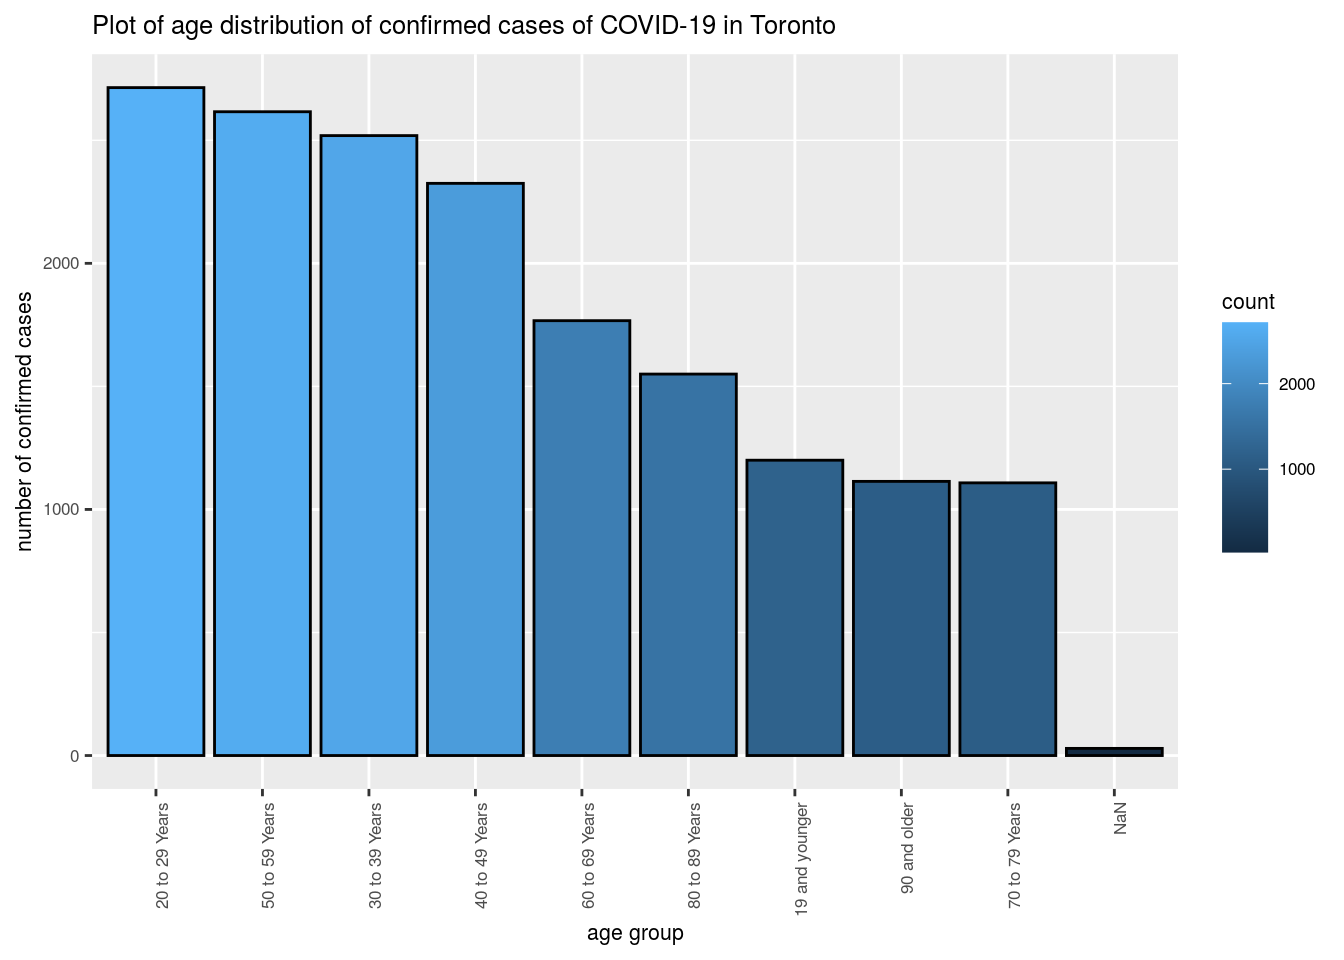
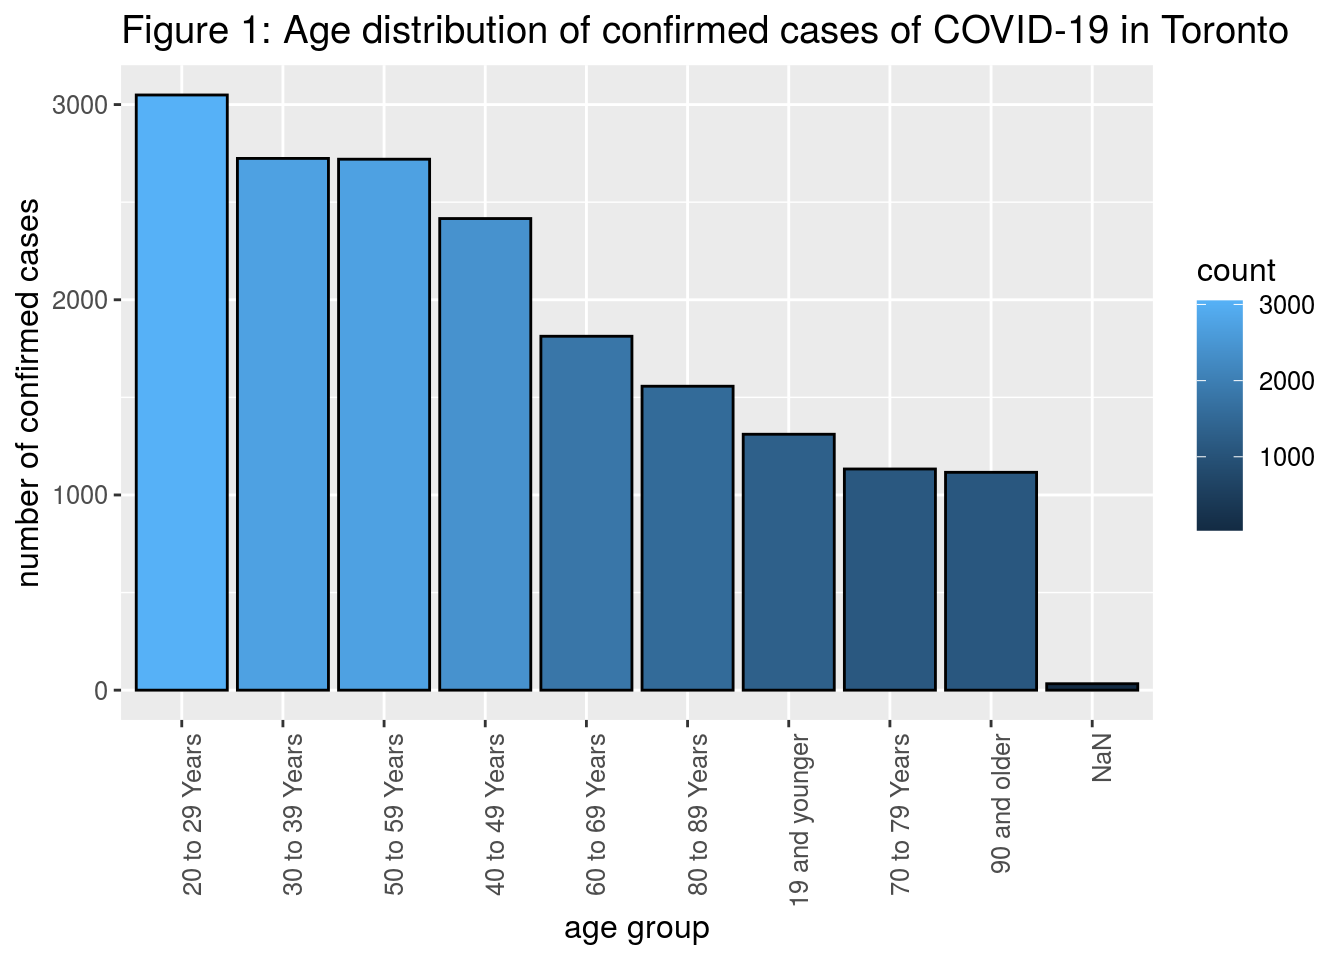
second commit

Changed region(s): [[0.0, 0.0, 0.9688, 1.0], [0.875, 0.2812, 1.0, 0.5938], [0.8125, 0.8438, 0.8438, 0.875]]

diff --git a/public/2020/09/20/young-people-is-the-key-to-slow-down-the-spread-of-covid-19-in-toronto/index.html b/public/2020/09/20/young-people-is-the-key-to-slow-down-the-spread-of-covid-19-in-toronto/index.html
@@ -22,11 +22,6 @@
 
 
 
-
-<link href='//cdnjs.cloudflare.com/ajax/libs/highlight.js/9.12.0/styles/github.min.css' rel='stylesheet' type='text/css' />
-
-
-
 <link rel="stylesheet" href="../../../../css/fonts.css" media="all">
 <link rel="stylesheet" href="../../../../css/main.css" media="all">
 
@@ -62,7 +57,7 @@
 
   <article class="article">
     
-    <span class="article-duration">6 min read</span>
+    <span class="article-duration">5 min read</span>
     
 
     <h1 class="article-title">Young people is the key to slow down the spread of COVID-19 in Toronto</h1>
@@ -77,71 +72,21 @@
 
 <div id="abstract" class="section level1">
 <h1>Abstract</h1>
-<p>Coronavirus has become a global health crisis, affecting 213 counties and more than 30 million people worldwide(Henrik Pettersson, Byron Manley and Sergio Hernandez, 2020). To further investigate how individuals from different age groups are affected by the coronavirus, we explored the data set of “COVID-19 Cases in Toronto” downloaded from the Toronto Open Data Portal. Surprisingly, we discovered that the age group of 20-29 years old, an age group that is generally considered to have the most robust immune system (Pagán, 2016), has the most confirmed cases of COVID-19. Such a finding may suggest that the healthcare regulatory agency may have to establish more countermeasures to slow down the spread of COVID-19 among young people.</p>
-<pre class="r"><code>install.packages(&quot;opendatatoronto&quot;)
-## Installing package into &#39;/home/rstudio-user/R/x86_64-pc-linux-gnu-library/4.0&#39;
-## (as &#39;lib&#39; is unspecified)
-library(opendatatoronto)
-
-covid_packages &lt;- search_packages(&quot;COVID-19 Cases in Toronto&quot;)
-
-covid_resources &lt;- covid_packages %&gt;%
-  list_package_resources()
-
-covid_resources
-## # A tibble: 1 x 4
-##   name          id                                   format last_modified
-##   &lt;chr&gt;         &lt;chr&gt;                                &lt;chr&gt;  &lt;date&gt;       
-## 1 COVID19 cases e5bf35bc-e681-43da-b2ce-0242d00922ad CSV    2020-09-16
-
-covid_statistics &lt;- covid_resources %&gt;%
-  get_resource()
-
-covid_statistics
-## # A tibble: 16,942 x 18
-##     `_id` Assigned_ID `Outbreak Assoc… `Age Group` `Neighbourhood … FSA  
-##     &lt;int&gt;       &lt;int&gt; &lt;chr&gt;            &lt;chr&gt;       &lt;chr&gt;            &lt;chr&gt;
-##  1 126705           1 Sporadic         50 to 59 Y… Willowdale East  M2N  
-##  2 126706           2 Sporadic         50 to 59 Y… Willowdale East  M2N  
-##  3 126707           3 Sporadic         20 to 29 Y… Parkwoods-Donal… M3A  
-##  4 126708           4 Sporadic         60 to 69 Y… Church-Yonge Co… M4W  
-##  5 126709           5 Sporadic         60 to 69 Y… Church-Yonge Co… M4W  
-##  6 126710           6 Sporadic         50 to 59 Y… Newtonbrook West M2R  
-##  7 126711           7 Sporadic         80 to 89 Y… Milliken         M1V  
-##  8 126712           8 Sporadic         60 to 69 Y… Willowdale West  M2N  
-##  9 126713           9 Sporadic         50 to 59 Y… Willowdale East  M2N  
-## 10 126714          10 Sporadic         60 to 69 Y… Henry Farm       M2J  
-## # … with 16,932 more rows, and 12 more variables: `Source of Infection` &lt;chr&gt;,
-## #   Classification &lt;chr&gt;, `Episode Date` &lt;chr&gt;, `Reported Date` &lt;chr&gt;, `Client
-## #   Gender` &lt;chr&gt;, Outcome &lt;chr&gt;, `Currently Hospitalized` &lt;chr&gt;, `Currently in
-## #   ICU` &lt;chr&gt;, `Currently Intubated` &lt;chr&gt;, `Ever Hospitalized` &lt;chr&gt;, `Ever
-## #   in ICU` &lt;chr&gt;, `Ever Intubated` &lt;chr&gt;</code></pre>
+<p>COVID-19 has become a global health crisis, affecting 213 counties and more than 30 million people worldwide (Henrik Pettersson, Byron Manley and Sergio Hernandez, 2020). To further investigate how individuals from different age groups are affected by the coronavirus, we explored the data set of “COVID-19 Cases in Toronto” downloaded from the Toronto Open Data Portal. Surprisingly, we discovered that the age group of 20-29 year-olds, an age group that is generally considered to have the most robust immune system (Pagán, 2016), has the most confirmed cases of COVID-19. Such a finding may suggest that the healthcare regulatory agency may have to establish more countermeasures to slow down the spread of COVID-19 among young people.</p>
 </div>
 <div id="introduction" class="section level1">
 <h1>Introduction</h1>
-<p>According to the most up-to-date data released by the Canadian healthcare authority, Ontario is a major epidemic province with 46,484 confirmed cases of COVID-19, only second to Quebec, which has 6,7080 confirmed cases (Government of Canada, 2020). Toronto, the economic center in Ontario, has 17259 confirmed cases, more than one-third of the total number of cases confirmed provincially (City of Toronto, 2020). Therefore, this global pandemic has significantly affected Toronto in various aspects. Hoping to gain more insights into the current situation of COVID-19 in Toronto, we analyzed the data set of “COVID-19 Cases in Toronto” from the Toronto Open Data Portal, especially the age distribution of confirmed cases. Namely, the variable of interest in our analysis is the age group of confirmed cases. We discovered that younger people had suffered the most from the COVID-19, while the age group of people between 70-79 years old has the lowest number of confirmed cases.</p>
-<p>The data set of “COVID-19 Cases in Toronto” contains 16,942 observations, with each unit of observation indicates a specific case of COVID-19 in Toronto. Each observation is associated with 18 variables, including information of the confirmed case’s age group, source of infection, episode date, gender, whether he/she is currently hospitalized, etc. To better evaluate how individuals from different age groups are affected by the coronavirus, we counted the number of confirmed cases within each age group, sorted the result in descending order to make a bar chart to visualize the current situation. Notice that young people and middle-ages tend to suffer more from the COVID-19, as shown by the bar chart below. Specifically, the age group of 20-29 years old has the largest number of confirmed cases of COVID-19, amounting to 2,714. The other three age groups that have more than 2000 confirmed cases are all consisted of middle-ages:</p>
+<p>According to the most up-to-date data released by the Canadian healthcare authority, Ontario is a significantly impacted province with 46,484 confirmed cases of COVID-19, second only to Quebec, which has 67,080 confirmed cases (Government of Canada, 2020). Toronto, the economic center of Ontario, has 17,259 confirmed cases, more than one-third of the total number of cases confirmed provincially (City of Toronto, 2020). Therefore, this global pandemic has seriously affected Toronto in various aspects. Hoping to gain more insights into the current situation of COVID-19 in Toronto, we analyzed the data set “COVID-19 Cases in Toronto” from the Toronto Open Data Portal, especially the age distribution of confirmed cases. Namely, the variable of interest in our analysis is the age group of confirmed cases. We discovered that younger people had suffered the most from the COVID-19, while the age group of people between 70-79 years old has the lowest number of confirmed cases.</p>
+<p>The data set of “COVID-19 Cases in Toronto” contains 16,942 observations, with each unit of observation indicating a specific case of COVID-19 in Toronto. Each observation is associated with 18 variables, including information of the confirmed case’s age group, source of infection, episode date, gender, whether he/she is currently hospitalized, etc. To better evaluate how individuals from different age groups are affected by the coronavirus, we counted the number of confirmed cases within each age group and sorted the result in descending order to create a bar chart to visualize the current situation. Notice that young and middle-aged people tend to suffer more from the COVID-19, as shown by Figure 1 below. Specifically, the age group of 20-29 year-olds has the largest number of confirmed cases of COVID-19, amounting to 2714. The other three age groups that have more than 2000 confirmed cases are all consisted of middle-aged:</p>
 <p>• 2,616 cases for people who are 50-59 years old</p>
 <p>• 2,519 cases for people who are 30-39 years old</p>
 <p>• 2,325 cases for people who are 40-49 years old</p>
-<p>Surprisingly, there are only 3,772 confirmed cases in the age group of people who are more than 70 years old. After further calculation, we found that people who are more than 70 years and affected by the COIVD-19 only account for approximately 22% of the entire population - the 16,942 confirmed cases in Toronto. Such a finding is unexpected because older people tend to have a weak immune system, meaning that they should be more significantly affected by the coronavirus (Pagán, 2016).</p>
-<pre class="r"><code>age &lt;- covid_statistics %&gt;%
-    group_by(`Age Group`) %&gt;%
-    summarise(count = n()) %&gt;%
-    top_n(n = 10, wt = count) %&gt;%
-    arrange(desc(count))
-## `summarise()` ungrouping output (override with `.groups` argument)</code></pre>
+<p>Surprisingly, there are only 3,772 confirmed cases in the age group of more than 70 years old. After further calculations, we found that people aged 70 years and above only account for approximately 22% of the population of all 16,942 confirmed cases in Toronto. Such a finding is unexpected because older people tend to have a weak immune system, meaning that they should be more significantly affected by the coronavirus (Pagán, 2016).</p>
+<p>The findings above suggest that young people, especially people between 20 to 29, are the primary sources of infections in Toronto. Therefore, the healthcare regulatory agency should allocate more resources and establish a more concrete countermeasure to prevent the spread of the COVID-19 among young people. However, the above suggestion has some potential weaknesses. First, the ideal target population - population intended to be investigated - in our analysis should be all cases of COVID-19 in Toronto. Unfortunately, it is possible that fewer older people chose to go to the hospital, making the confirmed cases of senior citizens smaller than what it should be. Second, many news articles indicate that young people, especially college students, still gather and party, ignoring current measures to slow down the coronavirus (Artuso, 2020). Therefore, our suggestion for the healthcare authority to put more restrictions on young people may be hard to carry out. Later in this paper, we will separate college students from the age group of 20-29 to investigate whether they account for a more significant portion of the corresponding age group, thus evaluating whether healthcare authorities should enforce stricter measures on college students.</p>
 </div>
-<div id="including-plots" class="section level1">
-<h1>Including Plots</h1>
-<pre class="r"><code>ggplot(data=age, aes(x=reorder(`Age Group`,-count), y=count, fill=count)) +
-    geom_bar(colour=&quot;black&quot;, stat=&quot;identity&quot;) +
-     theme(text = element_text(size=8),
-        axis.text.x = element_text(angle=90, hjust=1)) +
-    ggtitle(&quot;Plot of age distribution of confirmed cases of COVID-19 in Toronto&quot;) +
-    xlab(&quot;age group&quot;) + ylab(&quot;number of confirmed cases&quot;)</code></pre>
+<div id="a-plot-of-age-distribution-of-confirmed-cases-of-covid-19-in-toronto" class="section level1">
+<h1>A plot of age distribution of confirmed cases of COVID-19 in Toronto</h1>
 <p><img src="../../../../post/2015-07-23-r-rmarkdown_files/figure-html/unnamed-chunk-3-1.png" width="672" /></p>
-<p>The founding above suggests that young people, especially people between 20 to 29, are the driving force of this pandemic in Toronto. Therefore, the healthcare regulatory agency should allocate more resources and establish a more concrete countermeasure to prevent the spread of the COVID-19 among young people. However, the above suggestion has some potential weaknesses. First, the ideal target population - population intended to be investigated - in our analysis should be all confirmed cases of COVID-19 in Toronto. Unfortunately, It is possible that some older people who are affected by the coronavirus did not go to the hospital, thus making the confirmed cases of older people smaller than what it should be. Second, many news articles indicate that young people, especially college students, still gather and party, ignoring the current measure to slow down the coronavirus (Artuso, 2020). Therefore, our suggestion for the healthcare authority to put more restrictions on young people may be hard to carry out. Later in this paper, we will separate the college students from the age group of 20-29 to investigate whether they account for a significant portion of the corresponding age group, thus evaluating whether the healthcare authority must enforce stricter measures on the college student.</p>
 </div>
 <div id="references" class="section level1">
 <h1>References</h1>
@@ -154,14 +99,8 @@ covid_statistics
 <p>Yihui Xie and J.J. Allaire and Garrett Grolemund (2018). R Markdown: The Definitive Guide. Chapman and Hall/CRC. ISBN 9781138359338. URL <a href="https://bookdown.org/yihui/rmarkdown" class="uri">https://bookdown.org/yihui/rmarkdown</a>.</p>
 <p>Yihui Xie (2020). blogdown: Create Blogs and Websites with R Markdown. R package version 0.20.</p>
 <p>Yihui Xie, Alison Presmanes Hill, and Amber Thomas (2017). blogdown: Creating Websites with R Markdown. Chapman and Hall/CRC. ISBN 978-0815363729</p>
-<p><span class="citation">(<span class="citeproc-not-found" data-reference-id="Manual"><strong>???</strong></span>)</span>{,
-title = {R: A Language and Environment for Statistical Computing},
-author = {{R Core Team}},
-organization = {R Foundation for Statistical Computing},
-address = {Vienna, Austria},
-year = {2020},
-url = {<a href="https://www.R-project.org/" class="uri">https://www.R-project.org/</a>},
-}</p>
+<p>R Core Team (2020). R: A language and environment for statistical computing. R Foundation for Statistical Computing, Vienna, Austria. URL <a href="https://www.R-project.org/" class="uri">https://www.R-project.org/</a>.</p>
+<p>Wickham et al., (2019). Welcome to the tidyverse. Journal of Open Source Software, 4(43), 1686, <a href="https://doi.org/10.21105/joss.01686" class="uri">https://doi.org/10.21105/joss.01686</a></p>
 </div>
 
     </div>
@@ -185,18 +124,6 @@ url = {<a href="https://www.R-project.org/" class="uri">https://www.R-project.or
 
     </div>
     
-
-
-
-<script src="//cdnjs.cloudflare.com/ajax/libs/highlight.js/9.12.0/highlight.min.js"></script>
-
-
-
-<script src="//cdnjs.cloudflare.com/ajax/libs/highlight.js/9.12.0/languages/r.min.js"></script>
-<script src="//cdnjs.cloudflare.com/ajax/libs/highlight.js/9.12.0/languages/yaml.min.js"></script>
-<script>hljs.configure({languages: []}); hljs.initHighlightingOnLoad();</script>
-
-
 
     
 

diff --git a/public/2020/09/20/young-people-are-the-key-to-slow-down-the-spread-of-covid-19-in-toronto/index.html b/public/2020/09/20/young-people-are-the-key-to-slow-down-the-spread-of-covid-19-in-toronto/index.html
@@ -1,12 +1,73 @@
----
-title: "Young people are the key to slow down the spread of COVID-19 in Toronto"
-author: "Jinghan Yang"
-date: 2020-09-20T21:13:14-05:00
-references: "references.bib"
-categories: ["R"]
-tags: ["Abstract", "Introduction", "A plot of age distribution of confirmed cases of COVID-19 in Toronto"]
----
+<!DOCTYPE html>
+<html lang="en-us">
+  <head>
+    <meta charset="utf-8">
+<meta name="viewport" content="width=device-width, initial-scale=1.0">
+<meta name="generator" content="Hugo 0.75.1" />
 
+
+<title>Young people are the key to slow down the spread of COVID-19 in Toronto - Jinghan&#39;s website</title>
+<meta property="og:title" content="Young people are the key to slow down the spread of COVID-19 in Toronto - Jinghan&#39;s website">
+
+
+  <link href='../../../../favicon.ico' rel='icon' type='image/x-icon'/>
+
+
+
+  
+
+
+
+
+
+
+
+<link rel="stylesheet" href="../../../../css/fonts.css" media="all">
+<link rel="stylesheet" href="../../../../css/main.css" media="all">
+
+
+
+  </head>
+  <body>
+    <div class="wrapper">
+      <header class="header">
+        <nav class="nav">
+  <a href="../../../../" class="nav-logo">
+    <img src="../../../../images/logo.png"
+         width="50"
+         height="50"
+         alt="Logo">
+  </a>
+
+  <ul class="nav-links">
+    
+    <li><a href="../../../../about/">About</a></li>
+    
+    <li><a href="https://github.com/rstudio/blogdown">GitHub</a></li>
+    
+    <li><a href="https://twitter.com/rstudio">Twitter</a></li>
+    
+  </ul>
+</nav>
+
+      </header>
+
+
+<main class="content" role="main">
+
+  <article class="article">
+    
+    <span class="article-duration">5 min read</span>
+    
+
+    <h1 class="article-title">Young people are the key to slow down the spread of COVID-19 in Toronto</h1>
+
+    
+    <span class="article-date">2020-09-20</span>
+    
+
+    <div class="article-content">
+      
 
 
 <div id="abstract" class="section level1">
@@ -25,7 +86,7 @@ tags: ["Abstract", "Introduction", "A plot of age distribution of confirmed case
 </div>
 <div id="a-plot-of-age-distribution-of-confirmed-cases-of-covid-19-in-toronto" class="section level1">
 <h1>A plot of age distribution of confirmed cases of COVID-19 in Toronto</h1>
-<p><img src="/post/2015-07-23-r-rmarkdown_files/figure-html/unnamed-chunk-3-1.png" width="672" /></p>
+<p><img src="../../../../post/2015-07-23-r-rmarkdown_files/figure-html/unnamed-chunk-3-1.png" width="672" /></p>
 </div>
 <div id="references" class="section level1">
 <h1>References</h1>
@@ -41,3 +102,32 @@ tags: ["Abstract", "Introduction", "A plot of age distribution of confirmed case
 <p>R Core Team (2020). R: A language and environment for statistical computing. R Foundation for Statistical Computing, Vienna, Austria. URL <a href="https://www.R-project.org/" class="uri">https://www.R-project.org/</a>.</p>
 <p>Wickham et al., (2019). Welcome to the tidyverse. Journal of Open Source Software, 4(43), 1686, <a href="https://doi.org/10.21105/joss.01686" class="uri">https://doi.org/10.21105/joss.01686</a></p>
 </div>
+
+    </div>
+  </article>
+
+  
+
+
+</main>
+
+      <footer class="footer">
+        <ul class="footer-links">
+          <li>
+            <a href="../../../../index.xml" type="application/rss+xml" target="_blank">RSS feed</a>
+          </li>
+          <li>
+            <a href="https://gohugo.io/" class="footer-links-kudos">Made with <img src="../../../../images/hugo-logo.png" alt="Img link to Hugo website" width="22" height="22"></a>
+          </li>
+        </ul>
+      </footer>
+
+    </div>
+    
+
+    
+
+    
+  </body>
+</html>
+

diff --git a/public/tags/index.html b/public/tags/index.html
@@ -65,13 +65,6 @@
     <h2 class="archive-title">2020</h2>
     
     <article class="archive-item">
-      <a href="../tags/plot/" class="archive-item-link">Plot</a>
-      <span class="archive-item-date">
-        2020-09-20
-      </span>
-    </article>
-    
-    <article class="archive-item">
       <a href="../tags/introduction/" class="archive-item-link">Introduction</a>
       <span class="archive-item-date">
         2020-09-20
@@ -80,6 +73,13 @@
     
     <article class="archive-item">
       <a href="../tags/abstract/" class="archive-item-link">Abstract</a>
+      <span class="archive-item-date">
+        2020-09-20
+      </span>
+    </article>
+    
+    <article class="archive-item">
+      <a href="../tags/a-plot-of-age-distribution-of-confirmed-cases-of-covid-19-in-toronto/" class="archive-item-link">A plot of age distribution of confirmed cases of COVID-19 in Toronto</a>
       <span class="archive-item-date">
         2020-09-20
       </span>

diff --git a/public/tags/a-plot-of-age-distribution-of-confirmed-cases-of-covid-19-in-toronto/index.html b/public/tags/a-plot-of-age-distribution-of-confirmed-cases-of-covid-19-in-toronto/index.html
@@ -6,8 +6,8 @@
 <meta name="generator" content="Hugo 0.75.1" />
 
 
-<title>Abstract - Jinghan&#39;s website</title>
-<meta property="og:title" content="Abstract - Jinghan&#39;s website">
+<title>A plot of age distribution of confirmed cases of COVID-19 in Toronto - Jinghan&#39;s website</title>
+<meta property="og:title" content="A plot of age distribution of confirmed cases of COVID-19 in Toronto - Jinghan&#39;s website">
 
 
   <link href='../../favicon.ico' rel='icon' type='image/x-icon'/>
@@ -20,7 +20,7 @@
 
 
 
-<link href="../../tags/abstract/index.xml" rel="alternate" type="application/rss+xml" title="Jinghan&#39;s website" />
+<link href="../../tags/a-plot-of-age-distribution-of-confirmed-cases-of-covid-19-in-toronto/index.xml" rel="alternate" type="application/rss+xml" title="Jinghan&#39;s website" />
 
 
 

diff --git a/public/categories/r/index.html b/public/categories/r/index.html
@@ -65,7 +65,7 @@
     <h2 class="archive-title">2020</h2>
     
     <article class="archive-item">
-      <a href="../../2020/09/20/young-people-is-the-key-to-slow-down-the-spread-of-covid-19-in-toronto/" class="archive-item-link">Young people is the key to slow down the spread of COVID-19 in Toronto</a>
+      <a href="../../2020/09/20/young-people-are-the-key-to-slow-down-the-spread-of-covid-19-in-toronto/" class="archive-item-link">Young people are the key to slow down the spread of COVID-19 in Toronto</a>
       <span class="archive-item-date">
         2020-09-20
       </span>

diff --git a/public/tags/introduction/index.html b/public/tags/introduction/index.html
@@ -65,7 +65,7 @@
     <h2 class="archive-title">2020</h2>
     
     <article class="archive-item">
-      <a href="../../2020/09/20/young-people-is-the-key-to-slow-down-the-spread-of-covid-19-in-toronto/" class="archive-item-link">Young people is the key to slow down the spread of COVID-19 in Toronto</a>
+      <a href="../../2020/09/20/young-people-are-the-key-to-slow-down-the-spread-of-covid-19-in-toronto/" class="archive-item-link">Young people are the key to slow down the spread of COVID-19 in Toronto</a>
       <span class="archive-item-date">
         2020-09-20
       </span>

diff --git a/public/post/index.html b/public/post/index.html
@@ -65,7 +65,7 @@
     <h2 class="archive-title">2020</h2>
     
     <article class="archive-item">
-      <a href="../2020/09/20/young-people-is-the-key-to-slow-down-the-spread-of-covid-19-in-toronto/" class="archive-item-link">Young people is the key to slow down the spread of COVID-19 in Toronto</a>
+      <a href="../2020/09/20/young-people-are-the-key-to-slow-down-the-spread-of-covid-19-in-toronto/" class="archive-item-link">Young people are the key to slow down the spread of COVID-19 in Toronto</a>
       <span class="archive-item-date">
         2020-09-20
       </span>

diff --git a/public/index.html b/public/index.html
@@ -68,7 +68,7 @@
     <h2 class="archive-title">2020</h2>
     
     <article class="archive-item">
-      <a href="./2020/09/20/young-people-is-the-key-to-slow-down-the-spread-of-covid-19-in-toronto/" class="archive-item-link">Young people is the key to slow down the spread of COVID-19 in Toronto</a>
+      <a href="./2020/09/20/young-people-are-the-key-to-slow-down-the-spread-of-covid-19-in-toronto/" class="archive-item-link">Young people are the key to slow down the spread of COVID-19 in Toronto</a>
       <span class="archive-item-date">
         2020-09-20
       </span>
